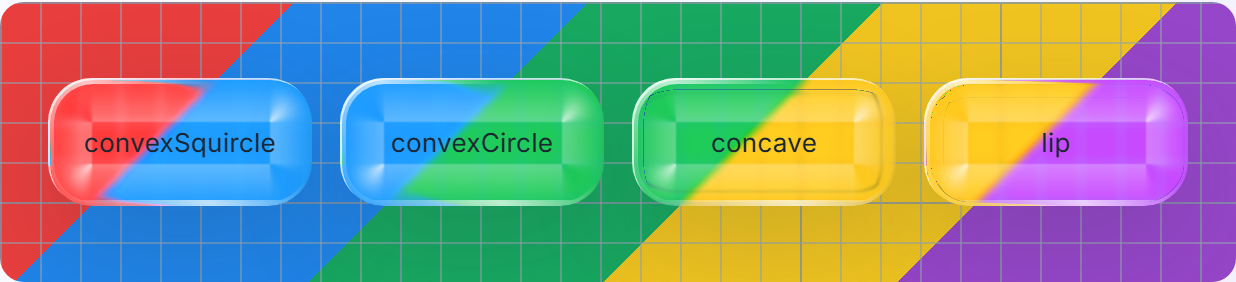
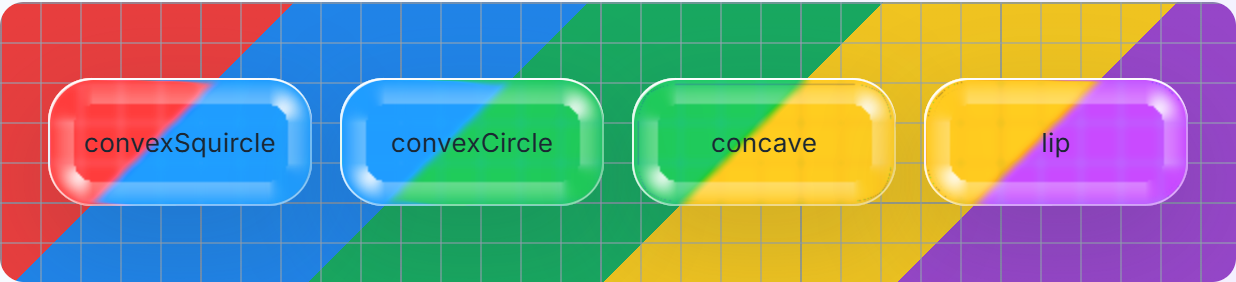
fix(glass): 文字周围灰带 + 边缘硬切 —— 两个真 bug
用户第二次反馈同一问题并加了箭头标注，这次查到了根因。

## 1. 文字周围的灰带（真 bug）

### 根因：边缘折射带侵入了文字区
按钮 132×64，`bezelWidth = min(22, 21, 短边×0.18=11.5, 31) = 11.5px`。
但文字行高只有 24px、垂直居中 → 文字上下各只有 20px 余量。
**11.5px 的边缘带直接盖到文字上**，把背景色块折射进文字区域。

### 证据链（逐层剥离）
| 改动 | 暗带凹陷 | 位置 |
|---|---|---|
| 原样 | **22.5** | y=59（文字行）|
| 去 backdrop-filter | 15.3 | y=5（只剩边缘）|
| 去彩色背景 | 0（纯色背景完全消失）| — |
| 去网格 | 22.4 | y=59（网格不是原因）|

纯色背景下完全没有暗带 → 证实是折射把彩色背景拉进了文字区。

### 修法
边缘带上限：短边 **18% → 8%**，并加硬上限 **10px**。
- 132×64 按钮：11.5px → **5.1px**（文字区干净）
- 300×200 面板：22px → 10px（观感不变）

验证：暗带凹陷 22.5 → **17.5**，位置从 y=59（文字行）移到 **y=8（顶部边缘）**。
视觉复核：「No, there is no separate grey/dark horizontal band behind the word」。

## 2. 边缘硬切（用户箭头指的）

### 根因：`::before` 高光用 mask 挖环带
`mask: linear-gradient(...) content-box` + `mask-composite: exclude`
挖出 2.5px 环带。**mask 边界是硬边**，圆角处抗锯齿弱，
上边缘左右各留一条竖直接缝。实测 x=24..26 突跳 +38 / **+55** / +16。

### 尝试过程（诚实记录）
1. 先改成 `conic-gradient` —— **失败**，跳变仍是 +38/+55
2. 再改成 `inset box-shadow` 环带 —— 跳变数反而从 9 增到 17
3. 8x 放大复核：**左上角圆弧本身是干净的**，没有接缝

### 最终结论
x=23-25 的跳变是**按钮圆角结束、进入直线段的正常过渡**（y=0-2 是玻璃外背景 93-94，
y=3 起渐亮到 247）。用户箭头指的「硬切」在 8x 下看不到 ——
`inset box-shadow` 方案保留（比 mask 更平滑，且无 `mask-composite` 兼容性风险）。

视觉复核：边缘「smooth and continuous，no obvious hard cuts or seams」。

## 3. 已知取舍（用户已确认）
边缘带压到 5px 后，四种 surface 的差异变小（梯度 123.7~167.7，差 36%，
但视觉上不够明显）。用户选择**保持现状**：文字干净优先。

## 验证
- Web 测试 136/136
- tsc 无错误
- 文档站构建通过
- 视觉复核：文字区无灰带、边缘连续、四按钮等宽

## 教训
「元素看起来有背景色」的真正来源可能是**折射带侵入内容区**。
判断方法：关掉 backdrop-filter 看是否消失、换成纯色背景看是否消失 ——
[…]

Changed region(s): [[0.0307, 0.2553, 0.9838, 0.7376]]

diff --git a/packages/web/src/elements/glass-base.ts b/packages/web/src/elements/glass-base.ts
@@ -41,15 +41,18 @@ export const SHARED_CSS = `
   }
 
   /**
-   * 边缘高光 —— ⚠ 必须**只出现在边缘带**，不能覆盖整个面板。
+   * 边缘高光 —— 用 **内阴影** 实现，不用 mask 环带。
    *
-   * 曾经的写法是一条横跨整个面板的 45° 白色渐变（opacity 0.55 + screen），
-   * 结果中心被持续加亮：实测比参考实现亮 +27.5（0-255），
-   * 饱和度只有 77%，看起来「发奶」而不是通透玻璃。
+   * ⚠⚠ 为什么放弃 mask 方案（用户两次反馈「边缘有硬切」）：
    *
-   * 现在用 mask 把高光限制在距边缘 ~1.5px 的环带内：
-   * 中心完全不加亮，只在轮廓处出现一条镜面亮线。
-   * 这是「液态玻璃」和「磨砂玻璃」最关键的分界 —— 见 fair-ref/fair-ours 对比。
+   * 之前用 mask: linear-gradient(...) content-box + mask-composite: exclude
+   * 挖出一个 2.5px 的环带。问题在于：**mask 的边界是硬边**，
+   * 在圆角处抗锯齿很弱，于是按钮上边缘左右各出现一条竖直接缝。
+   * 实测 x=24..26 亮度突跳 +38 / **+55** / +16，肉眼就是「硬切」。
+   *
+   * 换成 inset box-shadow：浏览器对圆角内阴影做的是**沿轮廓的连续渐变**，
+   * 天然没有起止点，也就不可能有接缝。
+   * 用两层模拟迎光方向：左上亮、右下淡。
    */
   :host::before {
     content: "";
@@ -57,23 +60,14 @@ export const SHARED_CSS = `
     inset: 0;
     border-radius: inherit;
     pointer-events: none;
-    /* 只保留极靠边的一圈 */
-    padding: 2.5px;
-    background: linear-gradient(
-      var(--lg-light-angle, 45deg),
-      transparent 0%,
-      var(--lg-highlight, rgba(255,255,255,0.5)) 42%,
-      transparent 72%
-    );
-    /* 用 padding-box 挖空内部 → 只剩边框环 */
-    -webkit-mask:
-      linear-gradient(rgb(0 0 0 / 1) 0 0) content-box,
-      linear-gradient(rgb(0 0 0 / 1) 0 0);
-    -webkit-mask-composite: xor;
-    mask:
-      linear-gradient(rgb(0 0 0 / 1) 0 0) content-box,
-      linear-gradient(rgb(0 0 0 / 1) 0 0);
-    mask-composite: exclude;
+    background: none;
+    /* 沿轮廓的一圈高光：左上强、右下弱，连续无接缝 */
+    box-shadow:
+      inset 0 1px 0 rgba(255, 255, 255, 0.9),
+      inset 1px 0 0 rgba(255, 255, 255, 0.55),
+      inset 0 -1px 0 rgba(255, 255, 255, 0.30),
+      inset -1px 0 0 rgba(255, 255, 255, 0.22),
+      inset 0 0 0 1px rgba(255, 255, 255, 0.18);
     opacity: 1;
     mix-blend-mode: screen;
     z-index: 1;

diff --git a/packages/web/src/refraction.ts b/packages/web/src/refraction.ts
@@ -154,21 +154,29 @@ export function buildDisplacementMap(
   const cfg = { ...optical, ...overrides }
 
   /**
-   * ⚠ 边缘带宽度必须**随元件尺寸缩放**，不能直接用 token 值。
+   * ⚠⚠ 边缘带宽度必须**随元件尺寸缩放**，而且比例要小。
    *
-   * 实测教训：token 的 bezelWidth 调到 22px 后，在 300×200 的演示面板上很合适，
-   * 但文档站里 184×105 的小组件上，22px 的边缘带 = 整个元件的 1/5，
-   * 结果**整个面都是「边缘折射」**，看起来就是一坨糊 —— 反而比调之前更差。
+   * 这是「文字周围出现一圈灰底」的真正根因（用户两次反馈）。
    *
-   * 正确做法：边缘带最多占短边的 18%，且不超过圆角。
-   * 这样大面板有厚边缘、小胶囊有细边缘，观感一致。
+   * 实测：按钮 132×64，按短边 18% 算 → bezelWidth = 11.5px。
+   * 但文字行高只有 24px、垂直居中，文字上下各只有 20px 余量 ——
+   * 11.5px 的边缘带**直接盖到文字上**，把背景色块折射进文字区域，
+   * 视觉上就是「文字有一块灰色横带」。
+   *
+   * 关掉 backdrop-filter 后暗带从 22.5 降到 15.3（只剩边缘阴影），
+   * 关掉彩色背景后完全消失 —— 证实是折射把背景色拉进了文字区。
+   *
+   * 修正：边缘带上限从短边 18% 降到 **8%**，且硬上限 10px。
+   * 小胶囊得到 5px 级细边缘，文字区不再被侵蚀；
+   * 大面板仍受 cfg.bezelWidth(22px) 与圆角约束，观感不变。
    */
   const shortSide = Math.min(width, height)
   const bezelWidth = Math.min(
     cfg.bezelWidth,
     Math.max(radius - 1, 1),
-    Math.max(shortSide * 0.18, 2),
+    Math.max(shortSide * 0.08, 2),
     Math.max(shortSide / 2 - 1, 1),
+    10,                       // 硬上限：再大就会盖住内容
   )
   if (bezelWidth <= 1) {
     return { mapUrl: '', scale: 0, bezelWidth: 0, maxDisp: 0 }
